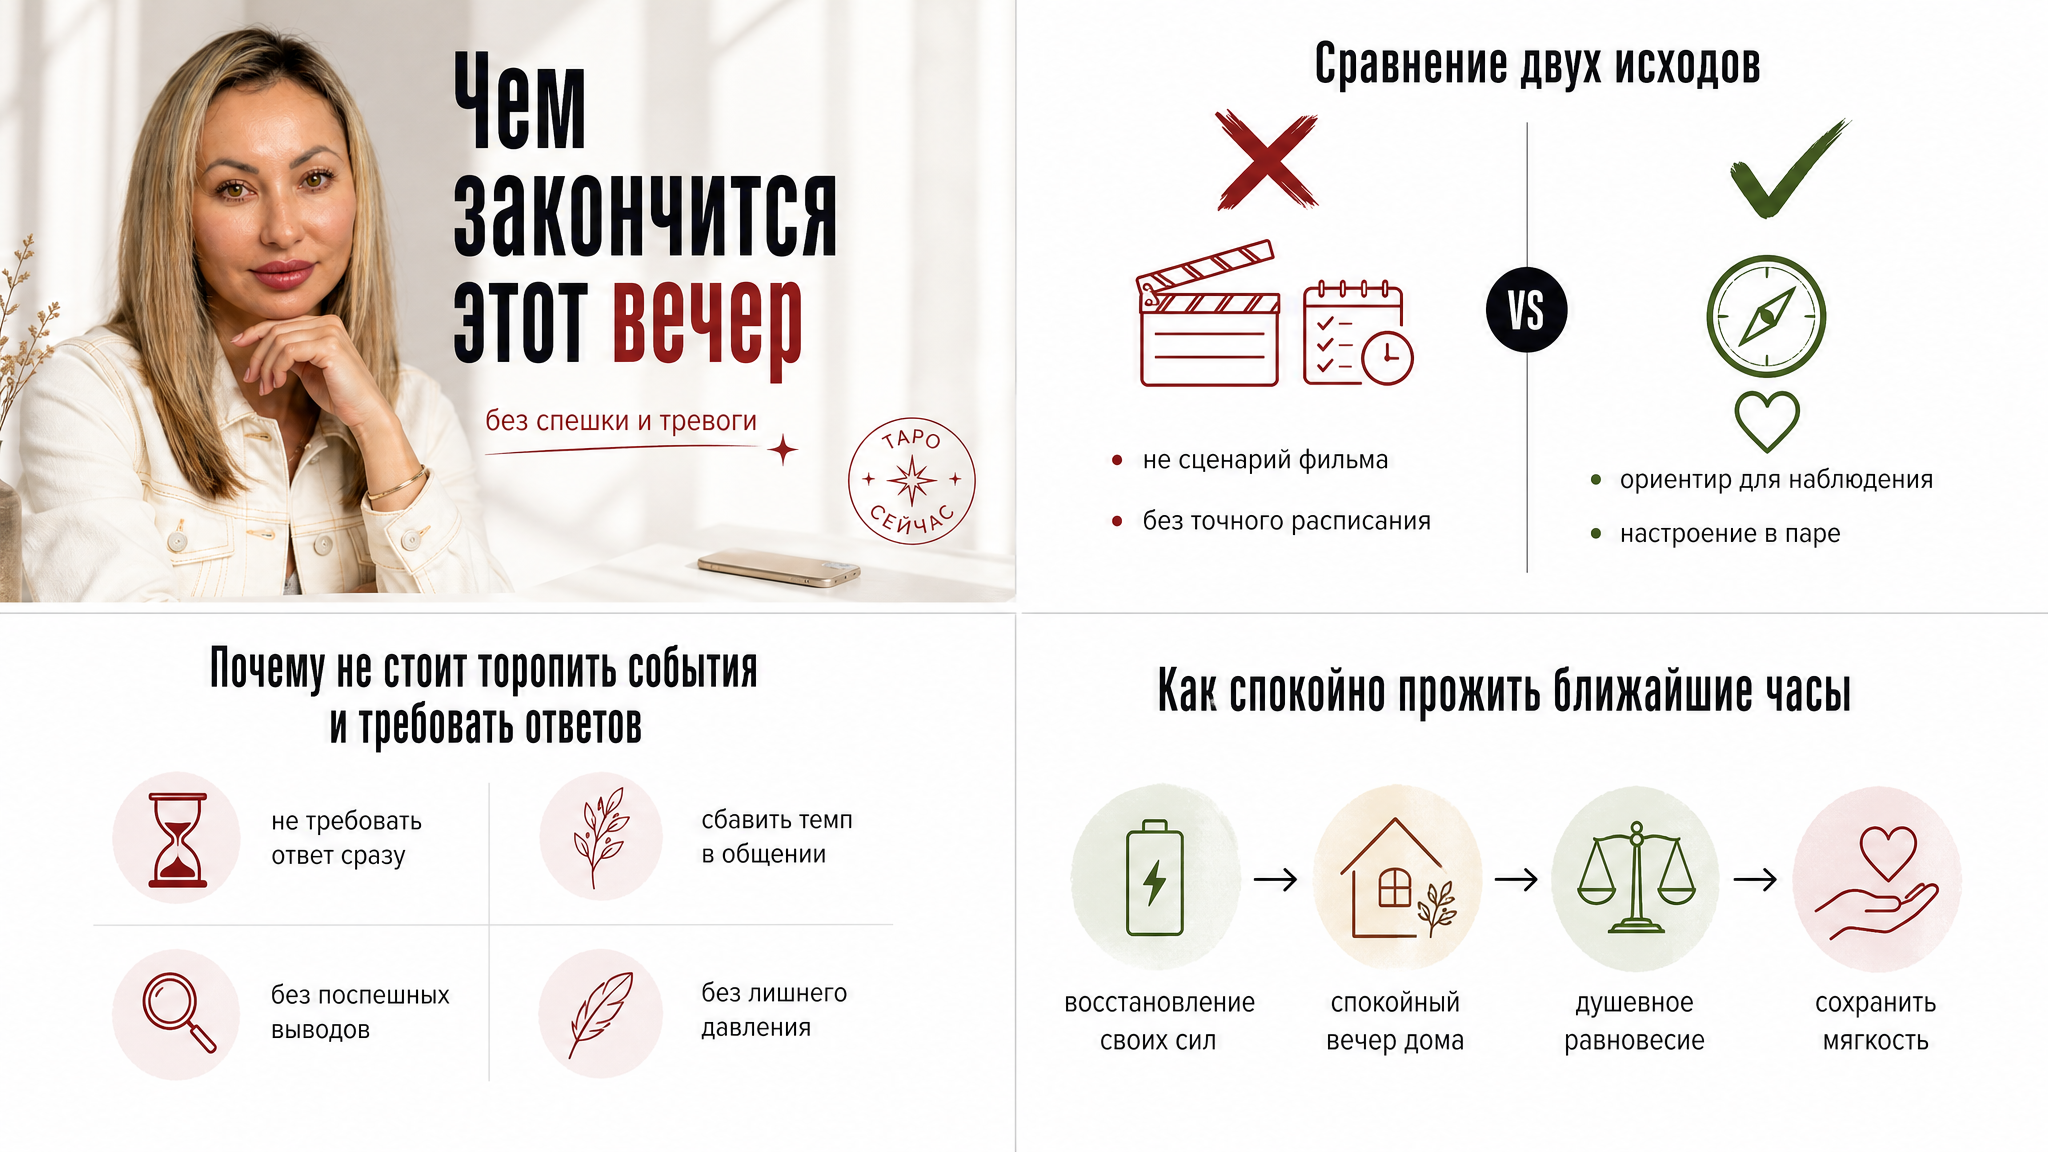
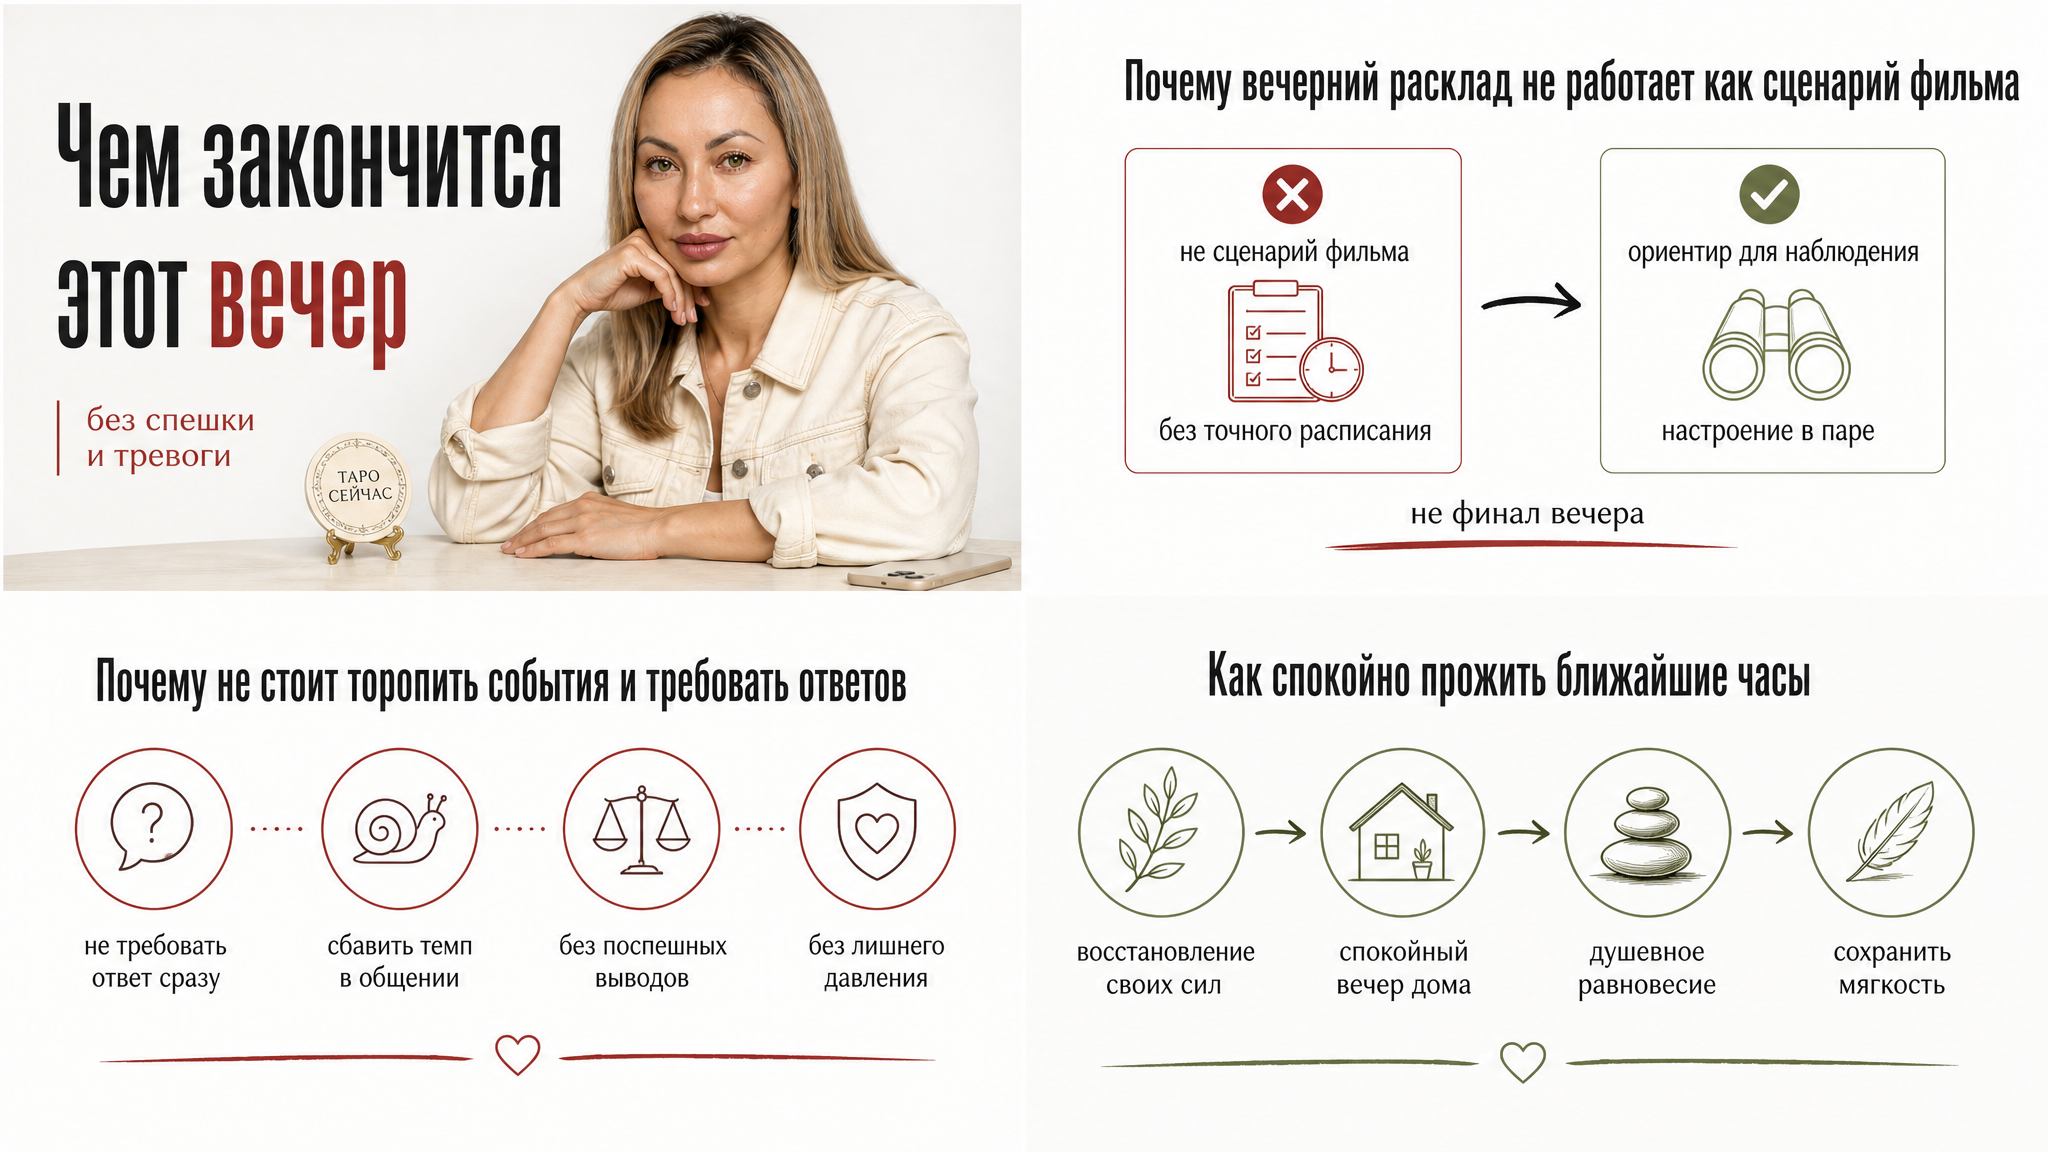
B04 cover: owner redo of full 2K quad, credit, bleed trim
One billed Kie after gutter bleed. Pillow credit hyphen. 18px cream strip on inline-02 filled white.

diff --git a/memory/pipeline-fix-queue.md b/memory/pipeline-fix-queue.md
@@ -100,3 +100,35 @@ category: prompt
 
 ### Fixer resolution
 - pending
+
+## INC-20260822-1652-cover-gutter-bleed-redo
+status: open
+run_date: 2026-08-22
+role: excalibur-blog-cover
+topic_id: B04
+article_dir: memory/blog/articles/B04-chto-budet-etim-vecherom-v-otnosheniyah
+severity: medium
+category: qa
+
+### What went wrong
+- First B04 canvas: auto split rejected gutter (h offset 58px, crop_loss 0.13). Mechanical 50/50 left a cream jacket/table strip on `inline-02`.
+- Owner-directed full-canvas redo (one billed job) with gutters ON center 1024/576. New canvas still painted cover table below y=576; auto again rejected gutter (h offset 47.5px, crop_loss 0.136). Mechanical cut left ~18px cream bleed on `inline-02`.
+
+### How the agent recovered this run
+- One Kie redo only (task ac3b5a8dc74f0c6d062eef8dbde2c427). No second billed gen.
+- After apply+credit, Pillow filled rows 0–17 of `inline-02` with #FFFFFF. Did not regenerate one panel.
+- Inline-01/03 tops were already white. No faces on inlines.
+
+### Durable fix needed before next run
+- Prompt must keep host/table inside top-left (content must not cross y=576 / x=1024).
+- Split may need a post-cut bleed trim when mechanical fallback leaves a foreign cream band.
+
+### Suggested files to inspect/change
+- `scripts/excalibur_blog_cover_quad_prompt.py`
+- `scripts/excalibur_blog_cover_quad_split.py`
+
+### Secrets
+- none recorded
+
+### Fixer resolution
+- pending
